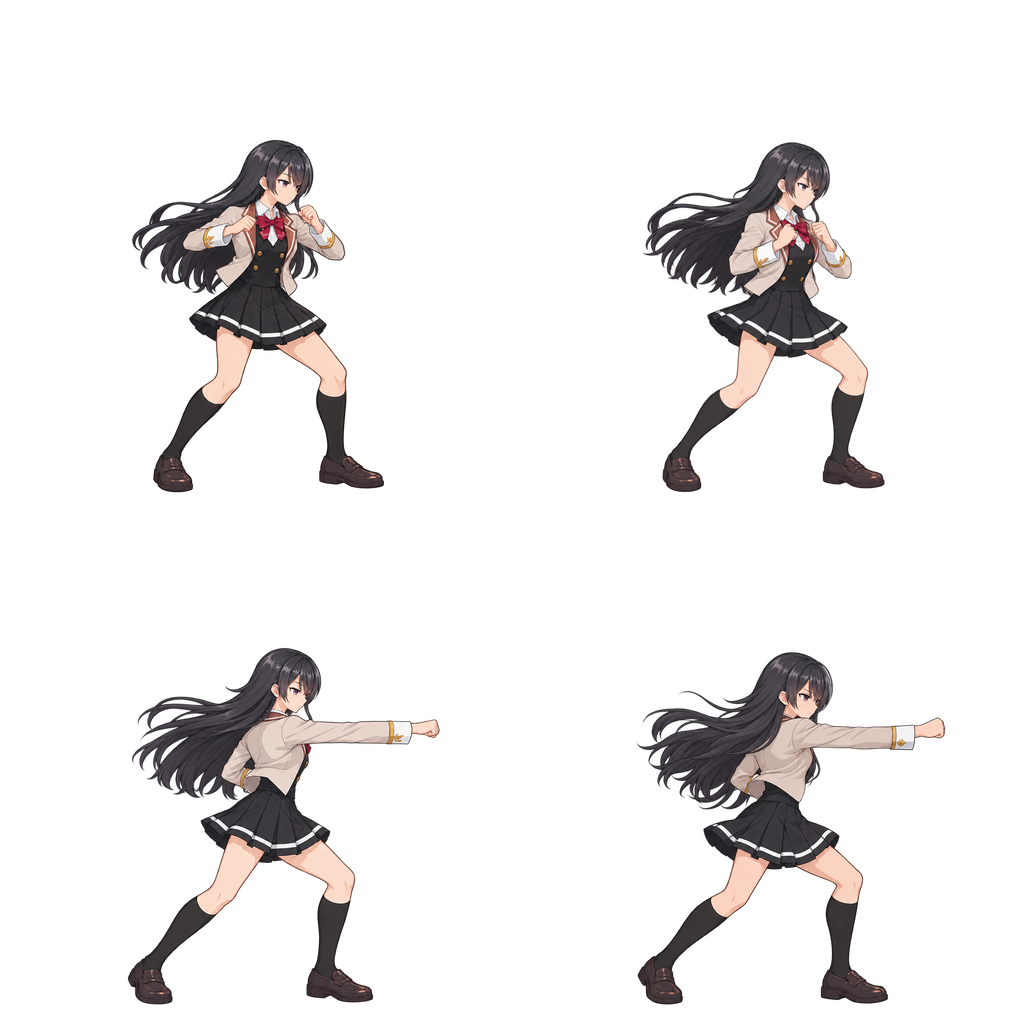
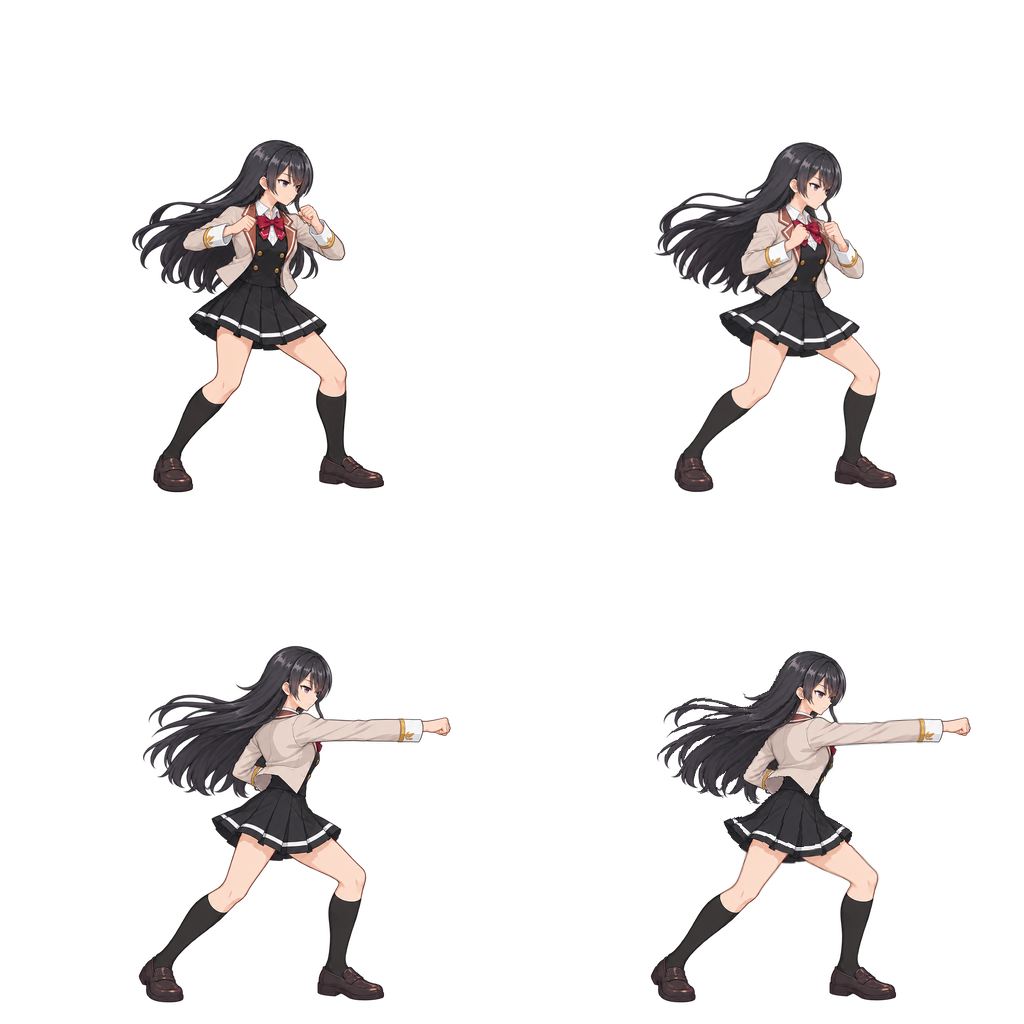
Update An punch sprites and collision boxes

Changed region(s): [[0.625, 0.625, 0.9688, 1.0], [0.125, 0.625, 0.4375, 1.0], [0.625, 0.125, 0.875, 0.5]]

diff --git a/src/hitbox-editor.ts b/src/hitbox-editor.ts
@@ -7,6 +7,13 @@ const el=<T extends HTMLElement>(id:string)=>document.getElementById(id) as T;
 const who=el<HTMLSelectElement>('who'),action=el<HTMLSelectElement>('action'),frame=el<HTMLInputElement>('frame'),picker=el<HTMLSelectElement>('box'),canvas=el<HTMLCanvasElement>('canvas'),ctx=canvas.getContext('2d')!,storage='dojo-hitbox-draft-v1';
 let edits:HitEdits=structuredClone(source),selected=0,sequence=0;
 try{const local=JSON.parse(localStorage.getItem(storage)??'{}');if(!validateHitboxes(local))edits={...edits,...local}}catch{}
+// Import boxes for the replaced An punch once, retaining a recoverable draft.
+const anPunchImportKey=storage+'-an-punch-refined-ten-v1';
+if(!localStorage.getItem(anPunchImportKey)){
+ localStorage.setItem(anPunchImportKey+'-backup',localStorage.getItem(storage)??'{}');
+ for(const [key,value] of Object.entries(source))if(key.startsWith('an/attack/'))edits[key]=structuredClone(value);
+ localStorage.setItem(storage,JSON.stringify(edits));localStorage.setItem(anPunchImportKey,'done');
+}
 const requestedCharacter=new URLSearchParams(location.search).get('character');
 if(requestedCharacter&&Array.from(who.options).some(o=>o.value===requestedCharacter))who.value=requestedCharacter;
 for(const a of strikes)action.add(new Option(a,a));

diff --git a/src/capsule-preview.ts b/src/capsule-preview.ts
@@ -17,6 +17,13 @@ const upgrade=(list:any[])=>list.length&&list.every(v=>v.part===undefined)?[...l
 const normalize=(data:Record<string,unknown>):CapsuleEdits=>Object.fromEntries(Object.entries(data).map(([k,v])=>[k,upgrade(Array.isArray(v)?v:[v])])) as CapsuleEdits;
 let edits:CapsuleEdits=normalize(structuredClone(sourceEdits));
 try{const draft=JSON.parse(localStorage.getItem(storageKey)??'{}');if(!validateCapsules(draft))edits={...edits,...normalize(draft)}}catch{}
+// Import only the replaced An punch; preserve all other poses and back up drafts.
+const anPunchImportKey=storageKey+'-an-punch-refined-ten-v1';
+if(!localStorage.getItem(anPunchImportKey)){
+ localStorage.setItem(anPunchImportKey+'-backup',localStorage.getItem(storageKey)??'{}');
+ for(const [key,value] of Object.entries(normalize(sourceEdits)))if(key.startsWith('an/attack/'))edits[key]=structuredClone(value);
+ localStorage.setItem(storageKey,JSON.stringify(edits));localStorage.setItem(anPunchImportKey,'done');
+}
 // Preserve existing browser edits while migrating run to ten independent frames.
 const runMigrationKey=storageKey+'-run-ten-independent-v1';
 if(!localStorage.getItem(runMigrationKey)){
